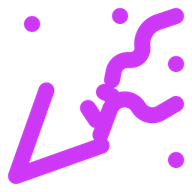
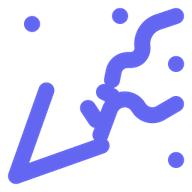
feat(theme): refresh brand palette from magenta to indigo->violet
Retargets the `brand` Tailwind scale to indigo (500 #6366f1, 600 #4f46e5)
with a slight violet drift in the deep shades, then propagates the new
brand color to every surface that hardcoded the old magenta:

- Tailwind tokens + shadow.pop tint
- index.html theme-color, vite PWA manifest, party.svg favicon, regenerated PNG icons
- NewEventDialog/EditEventDialog default + first swatch (and swap violet for teal so swatches stay visually distinct from the new brand)
- 6 notify-* edge function CTA backgrounds
- Migration 0018 retargets events.cover_color and user_event_templates.color defaults; existing rows are intentionally left alone so users keep any color they explicitly chose

diff --git a/supabase/functions/notify-rsvp-recovery/index.ts b/supabase/functions/notify-rsvp-recovery/index.ts
@@ -210,7 +210,7 @@ serve(async (req: Request) => {
     <div style="font-size:32px;line-height:1;margin-bottom:8px;">${escapeHtml(event.cover_emoji ?? "🎉")}</div>
     <h1 style="font-size:20px;margin:0 0 4px;color:#0f172a;">Update your RSVP</h1>
     <p style="color:#64748b;margin:0 0 20px;">Click below to update your RSVP for <strong>${escapeHtml(eventName)}</strong> from any device. This link is private to you — don't forward it.</p>
-    <a href="${recoveryUrl}" style="display:inline-block;background:#cc38f5;color:white;padding:10px 18px;border-radius:8px;text-decoration:none;font-weight:600;">Click to update your RSVP for ${escapeHtml(eventName)}</a>
+    <a href="${recoveryUrl}" style="display:inline-block;background:#6366f1;color:white;padding:10px 18px;border-radius:8px;text-decoration:none;font-weight:600;">Click to update your RSVP for ${escapeHtml(eventName)}</a>
     <p style="color:#94a3b8;font-size:12px;margin-top:24px;word-break:break-all;">Direct link: <a href="${recoveryUrl}" style="color:#94a3b8;">${recoveryUrl}</a></p>
     <p style="color:#cbd5e1;font-size:11px;margin-top:16px;">Link expires 90 days after issue. If you didn't request this, you can safely ignore the email.</p>
   </div>

diff --git a/tailwind.config.js b/tailwind.config.js
@@ -4,17 +4,19 @@ export default {
   theme: {
     extend: {
       colors: {
+        // Indigo → violet ramp. 50–500 are Tailwind `indigo`; 600–900 drift
+        // toward `violet` for richer dark surfaces and headings.
         brand: {
-          50: "#fdf2ff",
-          100: "#fae5ff",
-          200: "#f5cbff",
-          300: "#eda1ff",
-          400: "#e069ff",
-          500: "#cc38f5",
-          600: "#b01ad6",
-          700: "#9213b0",
-          800: "#761490",
-          900: "#621575",
+          50: "#eef2ff",
+          100: "#e0e7ff",
+          200: "#c7d2fe",
+          300: "#a5b4fc",
+          400: "#818cf8",
+          500: "#6366f1",
+          600: "#4f46e5",
+          700: "#4338ca",
+          800: "#3730a3",
+          900: "#312e81",
         },
       },
       fontFamily: {
@@ -23,7 +25,7 @@ export default {
       },
       boxShadow: {
         soft: "0 1px 2px rgba(16,24,40,0.04), 0 1px 3px rgba(16,24,40,0.06)",
-        pop: "0 10px 30px -10px rgba(176, 26, 214, 0.35)",
+        pop: "0 10px 30px -10px rgba(79, 70, 229, 0.35)",
       },
     },
   },

diff --git a/supabase/functions/notify-event-reminder/index.ts b/supabase/functions/notify-event-reminder/index.ts
@@ -286,7 +286,7 @@ function emailLayout(opts: {
     <h1 style="font-size:20px;margin:0 0 4px;color:#0f172a;">${escapeHtml(opts.heading)}</h1>
     <p style="color:#64748b;margin:0 0 20px;">${escapeHtml(opts.intro)}</p>
     ${bullets}
-    <a href="${opts.cta.href}" style="display:inline-block;background:#cc38f5;color:white;padding:10px 18px;border-radius:8px;text-decoration:none;font-weight:600;">${escapeHtml(opts.cta.label)}</a>
+    <a href="${opts.cta.href}" style="display:inline-block;background:#6366f1;color:white;padding:10px 18px;border-radius:8px;text-decoration:none;font-weight:600;">${escapeHtml(opts.cta.label)}</a>
     <p style="color:#94a3b8;font-size:12px;margin-top:24px;word-break:break-all;">Direct link: <a href="${opts.cta.href}" style="color:#94a3b8;">${opts.cta.href}</a></p>
     ${footer}
     ${unsubscribe}

diff --git a/supabase/functions/notify-share/index.ts b/supabase/functions/notify-share/index.ts
@@ -218,7 +218,7 @@ serve(async (req: Request) => {
       <div style="font-size:11px;text-transform:uppercase;color:#64748b;letter-spacing:0.05em;margin-bottom:8px;">Copy &amp; paste blurb</div>
       <div style="font-size:14px;color:#0f172a;line-height:1.5;">${escapeHtml(blurb)}</div>
     </div>
-    <a href="${link}" style="display:inline-block;background:#cc38f5;color:white;padding:10px 18px;border-radius:8px;text-decoration:none;font-weight:600;">Open share page</a>
+    <a href="${link}" style="display:inline-block;background:#6366f1;color:white;padding:10px 18px;border-radius:8px;text-decoration:none;font-weight:600;">Open share page</a>
     <p style="color:#94a3b8;font-size:12px;margin-top:24px;word-break:break-all;">Direct link: <a href="${link}" style="color:#94a3b8;">${link}</a></p>
   </div>
 </body></html>`;

diff --git a/supabase/functions/notify-invite/index.ts b/supabase/functions/notify-invite/index.ts
@@ -255,7 +255,7 @@ serve(async (req: Request) => {
     <h1 style="font-size:20px;margin:0 0 12px;color:#0f172a;">${escapeHtml(subject)}</h1>
     ${body}
     <p style="margin:24px 0 0;">
-      <a href="${cta}" style="display:inline-block;background:#cc38f5;color:white;padding:10px 18px;border-radius:8px;text-decoration:none;font-weight:600;">${pending ? "Sign up &amp; join" : "Open event"}</a>
+      <a href="${cta}" style="display:inline-block;background:#6366f1;color:white;padding:10px 18px;border-radius:8px;text-decoration:none;font-weight:600;">${pending ? "Sign up &amp; join" : "Open event"}</a>
     </p>
     <p style="color:#94a3b8;font-size:12px;margin-top:24px;word-break:break-all;">Direct link: <a href="${cta}" style="color:#94a3b8;">${cta}</a></p>
   </div>

diff --git a/supabase/functions/notify-assignment/index.ts b/supabase/functions/notify-assignment/index.ts
@@ -255,7 +255,7 @@ serve(async (req: Request) => {
       <div style="font-size:16px;font-weight:600;color:#0f172a;margin-bottom:8px;">${escapeHtml(payload.title)}</div>
       ${dueLine}
     </div>
-    <a href="${link}" style="display:inline-block;background:#cc38f5;color:white;padding:10px 18px;border-radius:8px;text-decoration:none;font-weight:600;">Open in Party Planner</a>
+    <a href="${link}" style="display:inline-block;background:#6366f1;color:white;padding:10px 18px;border-radius:8px;text-decoration:none;font-weight:600;">Open in Party Planner</a>
     <p style="color:#94a3b8;font-size:12px;margin-top:24px;">You're getting this because you collaborate on ${eventName}.</p>
   </div>
 </body></html>`;

diff --git a/supabase/functions/notify-wrap-up/index.ts b/supabase/functions/notify-wrap-up/index.ts
@@ -206,7 +206,7 @@ function buildWrapUpEmail(
         <li>Vendor rating (if you used any)</li>
       </ul>
     </div>
-    <a href="${link}" style="display:inline-block;background:#cc38f5;color:white;padding:10px 18px;border-radius:8px;text-decoration:none;font-weight:600;">File the wrap-up</a>
+    <a href="${link}" style="display:inline-block;background:#6366f1;color:white;padding:10px 18px;border-radius:8px;text-decoration:none;font-weight:600;">File the wrap-up</a>
     <p style="color:#94a3b8;font-size:12px;margin-top:24px;word-break:break-all;">Direct link: <a href="${link}" style="color:#94a3b8;">${link}</a></p>
     ${unsubscribeBlock}
   </div>

diff --git a/src/components/NewEventDialog.tsx b/src/components/NewEventDialog.tsx
@@ -9,10 +9,10 @@ import { logActivity } from "../lib/activity";
 import { useUserTemplates } from "../lib/hooks";
 
 const EMOJIS = ["🎉", "🎂", "🍻", "🥂", "🎃", "🎄", "💍", "👶", "🎓", "🌮", "🍕", "🪩", "🌊", "🏕", "🔥"];
-const COLORS = ["#cc38f5", "#ec4899", "#f59e0b", "#10b981", "#3b82f6", "#ef4444", "#8b5cf6", "#0ea5e9"];
+const COLORS = ["#6366f1", "#ec4899", "#f59e0b", "#10b981", "#3b82f6", "#ef4444", "#14b8a6", "#0ea5e9"];
 
 const DEFAULT_EMOJI = "🎉";
-const DEFAULT_COLOR = "#cc38f5";
+const DEFAULT_COLOR = "#6366f1";
 
 interface NewEventDialogProps {
   onClose: () => void;

diff --git a/src/components/EditEventDialog.tsx b/src/components/EditEventDialog.tsx
@@ -9,7 +9,7 @@ import { useAuth } from "../lib/auth";
 import { useConfirm } from "../lib/useConfirm";
 
 const EMOJIS = ["🎉", "🎂", "🍻", "🥂", "🎃", "🎄", "💍", "👶", "🎓", "🌮", "🍕", "🪩", "🌊", "🏕", "🔥"];
-const COLORS = ["#cc38f5", "#ec4899", "#f59e0b", "#10b981", "#3b82f6", "#ef4444", "#8b5cf6", "#0ea5e9"];
+const COLORS = ["#6366f1", "#ec4899", "#f59e0b", "#10b981", "#3b82f6", "#ef4444", "#14b8a6", "#0ea5e9"];
 
 function toLocalDateTime(iso: string | null): string {
   if (!iso) return "";

diff --git a/index.html b/index.html
@@ -7,7 +7,7 @@
       name="viewport"
       content="width=device-width, initial-scale=1.0, viewport-fit=cover"
     />
-    <meta name="theme-color" content="#cc38f5" />
+    <meta name="theme-color" content="#6366f1" />
     <meta name="apple-mobile-web-app-capable" content="yes" />
     <meta name="apple-mobile-web-app-status-bar-style" content="default" />
     <meta name="apple-mobile-web-app-title" content="Party Planner" />

diff --git a/vite.config.ts b/vite.config.ts
@@ -100,7 +100,7 @@ export default defineConfig(() => {
         name: "Party Planner",
         short_name: "Party",
         description: "Plan parties together — food, drinks, music, and more.",
-        theme_color: "#cc38f5",
+        theme_color: "#6366f1",
         background_color: "#f8fafc",
         display: "standalone",
         orientation: "portrait-primary",
